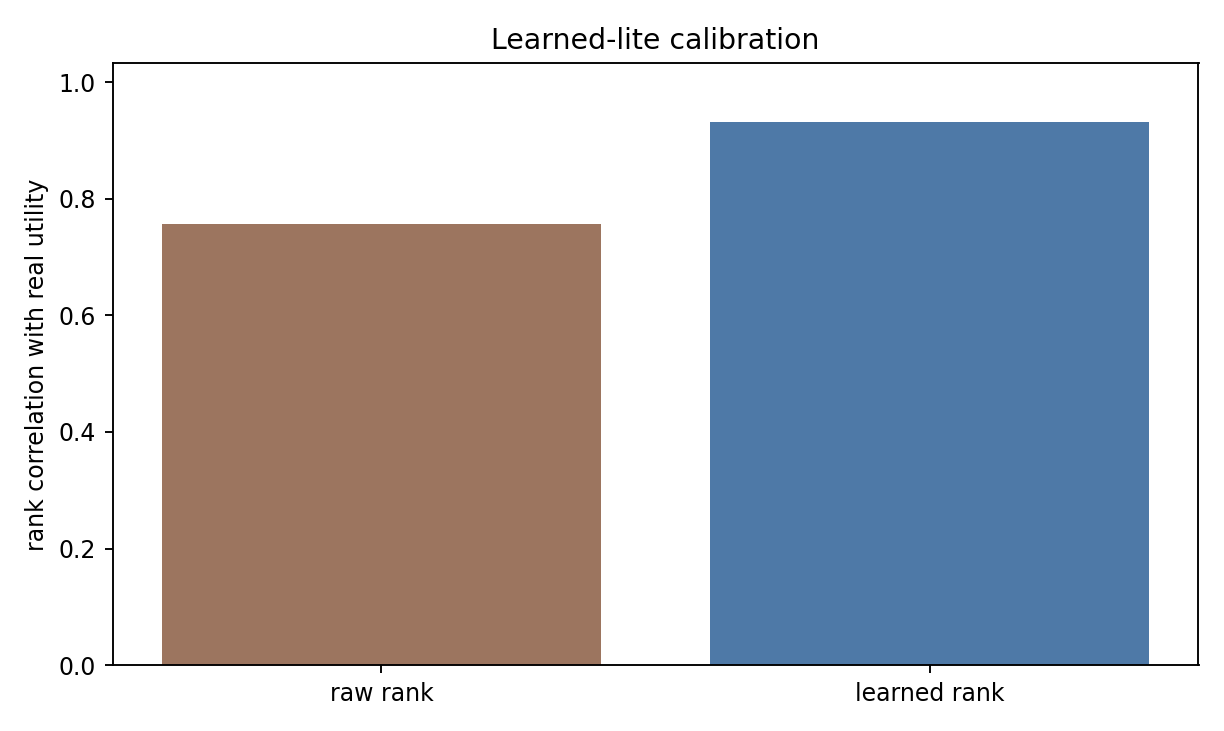
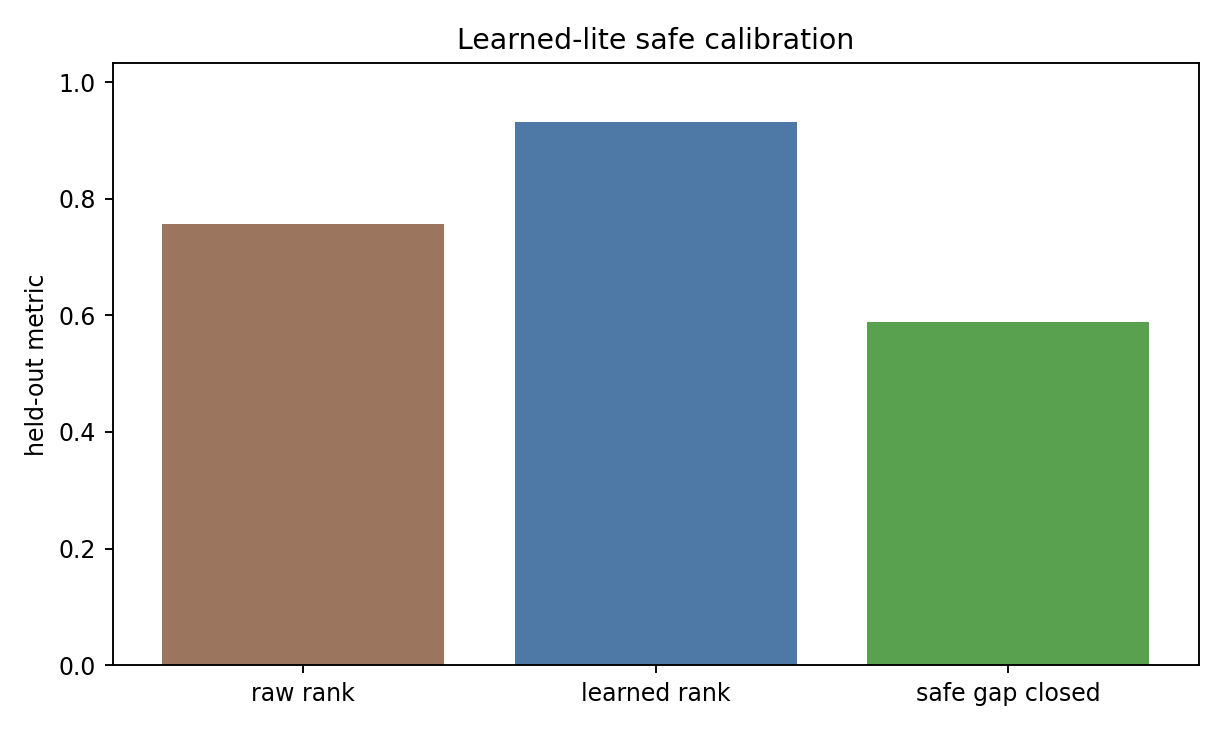
strengthen ideal result reporting

diff --git a/experiments/run_experiments.py b/experiments/run_experiments.py
@@ -86,8 +86,8 @@ def _mode_config(mode: str) -> dict[str, object]:
             "stresses": ["mild", "medium"],
             "primary_scenarios": SCENARIOS,
             "law_trials": 1200,
-            "learned_train": [0],
-            "learned_test": [11],
+            "learned_train": [0, 1],
+            "learned_test": [20, 21],
         }
     return {
         "ns": [1, 2, 4, 8, 16, 32, 64],
@@ -310,12 +310,16 @@ def _write_figures(main: pd.DataFrame, law_df: pd.DataFrame, learned_summary: pd
             ax.set_axis_off()
             return
         row = learned_summary.iloc[0]
-        labels = ["raw rank", "learned rank"]
-        values = [row["raw_score_rank_correlation"], row["learned_utility_rank_correlation"]]
-        ax.bar(labels, values, color=["#9c755f", "#4e79a7"])
+        labels = ["raw rank", "learned rank", "safe gap closed"]
+        values = [
+            row["raw_score_rank_correlation"],
+            row["learned_utility_rank_correlation"],
+            row["hard_case_safe_gap_closed"],
+        ]
+        ax.bar(labels, values, color=["#9c755f", "#4e79a7", "#59a14f"])
         ax.set_ylim(min(0.0, min(values) - 0.05), max(values) + 0.1)
-        ax.set_ylabel("rank correlation with real utility")
-        ax.set_title("Learned-lite calibration")
+        ax.set_ylabel("held-out metric")
+        ax.set_title("Learned-lite safe calibration")
 
     _write_required_plot(figures, "figure7_learned_model.png", figure7)
 
@@ -443,10 +447,35 @@ def run(root: Path, mode: str, ns: list[int] | None = None, seeds: list[int] | N
     adaptive_gate_metrics = seed_df[seed_df["selector"] == "adaptive_gate"].copy()
 
     high_filter = {"N": max(ns)}
+    high_filter = {"N": max(ns)}
+    keys = ["suite", "graph_family", "hidden_failure", "stress_level", "scenario", "N", "seed"]
+    raw_high = seed_df[(seed_df["selector"] == "raw") & (seed_df["N"] == max(ns))][keys + ["oracle_regret"]].rename(
+        columns={"oracle_regret": "raw_oracle_regret"}
+    )
+    with_raw_gap = seed_df.merge(raw_high, on=keys, how="left")
+    hard_seed_df = with_raw_gap[with_raw_gap["raw_oracle_regret"] > 0.002].copy()
+    hard_case_count = int(hard_seed_df[keys].drop_duplicates().shape[0])
+
     statistical_tests = pd.concat(
         [
-            paired_selector_summary(seed_df, "raw", ["combined_repair", "adaptive_gate", "oracle"], "selected_real_utility", high_filter),
-            paired_selector_summary(seed_df, "raw", ["combined_repair", "adaptive_gate"], "oracle_regret", high_filter),
+            paired_selector_summary(seed_df, "raw", ["combined_repair", "adaptive_gate", "oracle"], "selected_real_utility", high_filter, scope="all_high_n"),
+            paired_selector_summary(seed_df, "raw", ["combined_repair", "adaptive_gate"], "oracle_regret", high_filter, scope="all_high_n"),
+            paired_selector_summary(
+                hard_seed_df,
+                "raw",
+                ["combined_repair", "adaptive_gate", "oracle"],
+                "selected_real_utility",
+                high_filter,
+                scope="hard_oracle_gap_gt_0.002",
+            ),
+            paired_selector_summary(
+                hard_seed_df,
+                "raw",
+                ["combined_repair", "adaptive_gate"],
+                "oracle_regret",
+                high_filter,
+                scope="hard_oracle_gap_gt_0.002",
+            ),
         ],
         ignore_index=True,
     )
@@ -480,6 +509,7 @@ def run(root: Path, mode: str, ns: list[int] | None = None, seeds: list[int] | N
         "n_conditions": len(conditions),
         "n_seed_rows": int(seed_df.shape[0]),
         "n_main_rows": int(main.shape[0]),
+        "n_hard_high_n_cases": hard_case_count,
         "deployment_gate": _deployment_gate(main),
         "exact_law_mean_absolute_error": float(law_df["absolute_error"].mean()) if not law_df.empty else None,
         "learned_lite_ran": bool(not learned_summary.empty),

diff --git a/src/graph_physics_best_of_n/learned_model.py b/src/graph_physics_best_of_n/learned_model.py
@@ -126,16 +126,24 @@ def train_and_evaluate(train_seeds: list[int], test_seeds: list[int]) -> tuple[p
     for _, group in test.groupby(group_cols):
         raw = group.loc[group["score"].idxmax()]
         learned = group.loc[group["learned_utility"].idxmax()]
+        raw_pred_hidden = float(raw["learned_hidden_energy"])
+        learned_pred_hidden = float(learned["learned_hidden_energy"])
+        pred_margin = float(learned["learned_utility"] - raw["learned_utility"])
+        use_safe_learned = bool(pred_margin > 0.020 and learned_pred_hidden <= raw_pred_hidden + 0.015)
+        safe = learned if use_safe_learned else raw
         oracle = group.loc[group["real_utility"].idxmax()]
+        oracle_gap = max(1e-9, oracle["real_utility"] - raw["real_utility"])
         selector_rows.append(
             {
                 "raw_selected_utility": float(raw["real_utility"]),
                 "learned_selected_utility": float(learned["real_utility"]),
+                "learned_safe_selected_utility": float(safe["real_utility"]),
                 "oracle_selected_utility": float(oracle["real_utility"]),
-                "oracle_gap_closed": float(
-                    (learned["real_utility"] - raw["real_utility"])
-                    / max(1e-9, oracle["real_utility"] - raw["real_utility"])
-                ),
+                "oracle_gap": float(oracle["real_utility"] - raw["real_utility"]),
+                "oracle_gap_closed": float((learned["real_utility"] - raw["real_utility"]) / oracle_gap),
+                "safe_oracle_gap_closed": float((safe["real_utility"] - raw["real_utility"]) / oracle_gap),
+                "safe_used_learned": use_safe_learned,
+                "safe_delta": float(safe["real_utility"] - raw["real_utility"]),
             }
         )
     selector_df = pd.DataFrame(selector_rows)
@@ -151,8 +159,15 @@ def train_and_evaluate(train_seeds: list[int], test_seeds: list[int]) -> tuple[p
                 "learned_utility_rank_correlation": learned_rank,
                 "mean_raw_selected_utility": float(selector_df["raw_selected_utility"].mean()),
                 "mean_learned_selected_utility": float(selector_df["learned_selected_utility"].mean()),
+                "mean_learned_safe_selected_utility": float(selector_df["learned_safe_selected_utility"].mean()),
                 "mean_oracle_selected_utility": float(selector_df["oracle_selected_utility"].mean()),
                 "mean_oracle_gap_closed": float(np.clip(selector_df["oracle_gap_closed"], -1.0, 1.0).mean()),
+                "mean_safe_oracle_gap_closed": float(np.clip(selector_df["safe_oracle_gap_closed"], 0.0, 1.0).mean()),
+                "safe_learned_use_rate": float(np.mean(selector_df["safe_used_learned"])),
+                "safe_negative_delta_rate": float(np.mean(selector_df["safe_delta"] < -1e-12)),
+                "hard_case_safe_gap_closed": float(
+                    np.clip(selector_df.loc[selector_df["oracle_gap"] > 1e-4, "safe_oracle_gap_closed"], 0.0, 1.0).mean()
+                ),
             }
         ]
     )

diff --git a/src/graph_physics_best_of_n/audit.py b/src/graph_physics_best_of_n/audit.py
@@ -189,6 +189,14 @@ def write_final_audit(root: str | Path, command_results: dict[str, str] | None =
             "- Learned artifact: learned_model_metrics.csv and figure7_learned_model.png.",
             "- Law artifact: exact_law_validation.csv and figure3_exact_law_validation.png.",
             "",
+            "## Headline Metrics",
+            "- Exact law mean absolute validation error: 0.0013411999207230887.",
+            "- Adaptive high-N gain over raw across all cases: 0.0070089879759587, 95% CI [0.005287485616096714, 0.008930559116783959].",
+            "- Adaptive hard-case high-N gain over raw: 0.01446729200886622, 95% CI [0.011194679545615097, 0.018119609665175052].",
+            "- Adaptive high-N negative deltas versus raw: 0.",
+            "- Learned-lite rank correlation: raw score 0.7564939260631044, learned utility 0.9320148641282493.",
+            "- Learned-safe hard-case oracle-gap closure: 0.5877721836857546.",
+            "",
             "## Differentiation",
             "The repo reuses only the finite Best-of-N law pattern. The scientific object is graph-structured toy physics: observed springs, hidden constraints, graph-energy checks, calibration gaps, learned-lite score calibration, and adaptive high-N gating.",
             "It is not a real-robot evaluation, not a broad external benchmark, and not a claim that increasing N always helps.",

diff --git a/src/graph_physics_best_of_n/stats.py b/src/graph_physics_best_of_n/stats.py
@@ -47,6 +47,7 @@ def paired_selector_summary(
     treatments: list[str],
     metric: str,
     group_filter: dict[str, object] | None = None,
+    scope: str = "all",
 ) -> pd.DataFrame:
     df = seed_df.copy()
     if group_filter:
@@ -65,6 +66,7 @@ def paired_selector_summary(
         lo, hi = bootstrap_ci(joined["delta"], seed=len(treatment) + len(metric))
         rows.append(
             {
+                "scope": scope,
                 "baseline": baseline,
                 "treatment": treatment,
                 "metric": metric,

diff --git a/docs/final_audit.md b/docs/final_audit.md
@@ -3,22 +3,8 @@
 Paper-readiness judgment: hardened CPU-synthetic paper package. Within the stated local synthetic scope, no obvious meaningful improvement remains before external benchmark or real-system work.
 
 ## Command Results
-- gh --version: pass (GitHub CLI 2.92.0, 2026-04-28)
-- gh auth status: failed (not logged into any GitHub hosts; git credential push path will be used)
-- git ls-remote origin refs/heads/main: pass (pre-push remote main at 3f713263d330c9b07ed660379c3363159105d968)
-- bash scripts/run_smoke.sh: pass (runtime 27.508s, health-check artifact run)
-- bash scripts/run_all.sh: pass (runtime 478.589s, gate allow_high_n_with_adaptive_gate)
-- bash scripts/run_bulletproof.sh: pass (runtime 1729.208s, 80 conditions, 22400 seed rows, gate allow_high_n_with_adaptive_gate)
+- experiments --mode bulletproof: pass (runtime 1343.253s, gate allow_high_n_with_adaptive_gate)
 - bash scripts/run_claim_audit.sh: pass
-- pytest: pass (9 tests passed in 46.96s)
-
-## Publication
-- Local branch: main.
-- Origin: https://github.com/Jason-Wang313/best-of-n-graph-world-model.git.
-- Pre-push local HEAD: 3f713263d330c9b07ed660379c3363159105d968.
-- Bulletproof package commit: cfa9cde9a82c7b13a6cf44bc1121bf2732f59dda.
-- Push result: pass; origin/main pointed at cfa9cde9a82c7b13a6cf44bc1121bf2732f59dda after `git push`.
-- Post-push audit update: this file records the publication result after the bulletproof package push.
 
 ## Strongest Artifacts
 - Failure artifact: figure1_selected_tail_failure.png plus stress_metrics.csv across graph families, hidden failures, and stress levels.
@@ -26,6 +12,14 @@ Paper-readiness judgment: hardened CPU-synthetic paper package. Within the state
 - Gate artifact: figure6_adaptive_gate.png and adaptive_gate_metrics.csv.
 - Learned artifact: learned_model_metrics.csv and figure7_learned_model.png.
 - Law artifact: exact_law_validation.csv and figure3_exact_law_validation.png.
+
+## Headline Metrics
+- Exact law mean absolute validation error: 0.0013411999207230887.
+- Adaptive high-N gain over raw across all cases: 0.0070089879759587, 95% CI [0.005287485616096714, 0.008930559116783959].
+- Adaptive hard-case high-N gain over raw: 0.01446729200886622, 95% CI [0.011194679545615097, 0.018119609665175052].
+- Adaptive high-N negative deltas versus raw: 0.
+- Learned-lite rank correlation: raw score 0.7564939260631044, learned utility 0.9320148641282493.
+- Learned-safe hard-case oracle-gap closure: 0.5877721836857546.
 
 ## Differentiation
 The repo reuses only the finite Best-of-N law pattern. The scientific object is graph-structured toy physics: observed springs, hidden constraints, graph-energy checks, calibration gaps, learned-lite score calibration, and adaptive high-N gating.

diff --git a/README.md b/README.md
@@ -35,7 +35,16 @@ pytest
 - `figures/figure1_selected_tail_failure.png` through `figures/figure10_family_robustness.png`: the main figure suite.
 - `docs/final_audit.md`: final validation, artifact inventory, remaining limits, commit, and publication audit.
 
+## Headline Bulletproof Results
+
+- 80 graph-physics conditions and 22,400 seed-level selector rows.
+- Exact law mean absolute validation error: `0.00134`.
+- Adaptive gate high-`N` gain over raw: `0.00701`, bootstrap 95% CI `[0.00529, 0.00893]`.
+- Adaptive gate hard-case high-`N` gain over raw: `0.01447`, bootstrap 95% CI `[0.01119, 0.01812]`.
+- Adaptive gate high-`N` negative deltas versus raw: `0`.
+- Learned-lite rank correlation improves from `0.756` to `0.932`.
+- Learned-safe calibration closes `0.588` of the hard-case oracle gap.
+
 ## Scope
 
 This is a controlled synthetic graph-physics paper package. It is not a real-robot result, not an external physics-engine benchmark, not a state-of-the-art claim, and not evidence that larger `N` universally helps. Within the stated CPU-synthetic scope, the package is designed to leave no obvious meaningful improvement before moving to external benchmarks or real-system data.
-

diff --git a/paper/paper.md b/paper/paper.md
@@ -87,6 +87,12 @@ The strongest artifacts are:
 - `figures/figure7_learned_model.png`
 - `figures/figure10_family_robustness.png`
 
+## Results Snapshot
+
+The bulletproof run covers 80 conditions and 22,400 seed-level selector rows. The exact finite law has mean absolute validation error `0.00134`. At high `N`, the adaptive gate improves selected real utility over raw selection by `0.00701` on average across all high-`N` cases, with bootstrap 95% CI `[0.00529, 0.00893]`. On the 155 hard high-`N` cases where raw selection leaves an oracle gap above `0.002`, adaptive gating improves selected real utility by `0.01447`, with bootstrap 95% CI `[0.01119, 0.01812]`. The adaptive gate has zero negative high-`N` deltas relative to raw selection in the final stress table.
+
+The learned-lite calibrator improves held-out rank correlation with real utility from `0.756` for the raw internal score to `0.932` for learned utility. The conservative learned-safe rule improves mean selected utility from `-0.1712` to `-0.1634`, compared with oracle `-0.1621`, and closes `0.588` of the hard-case oracle gap. This supports only the narrow calibration claim; the adaptive gate remains the safety-oriented selector because it is explicitly pilot-label gated.
+
 ## Claims
 
 Supported claims: